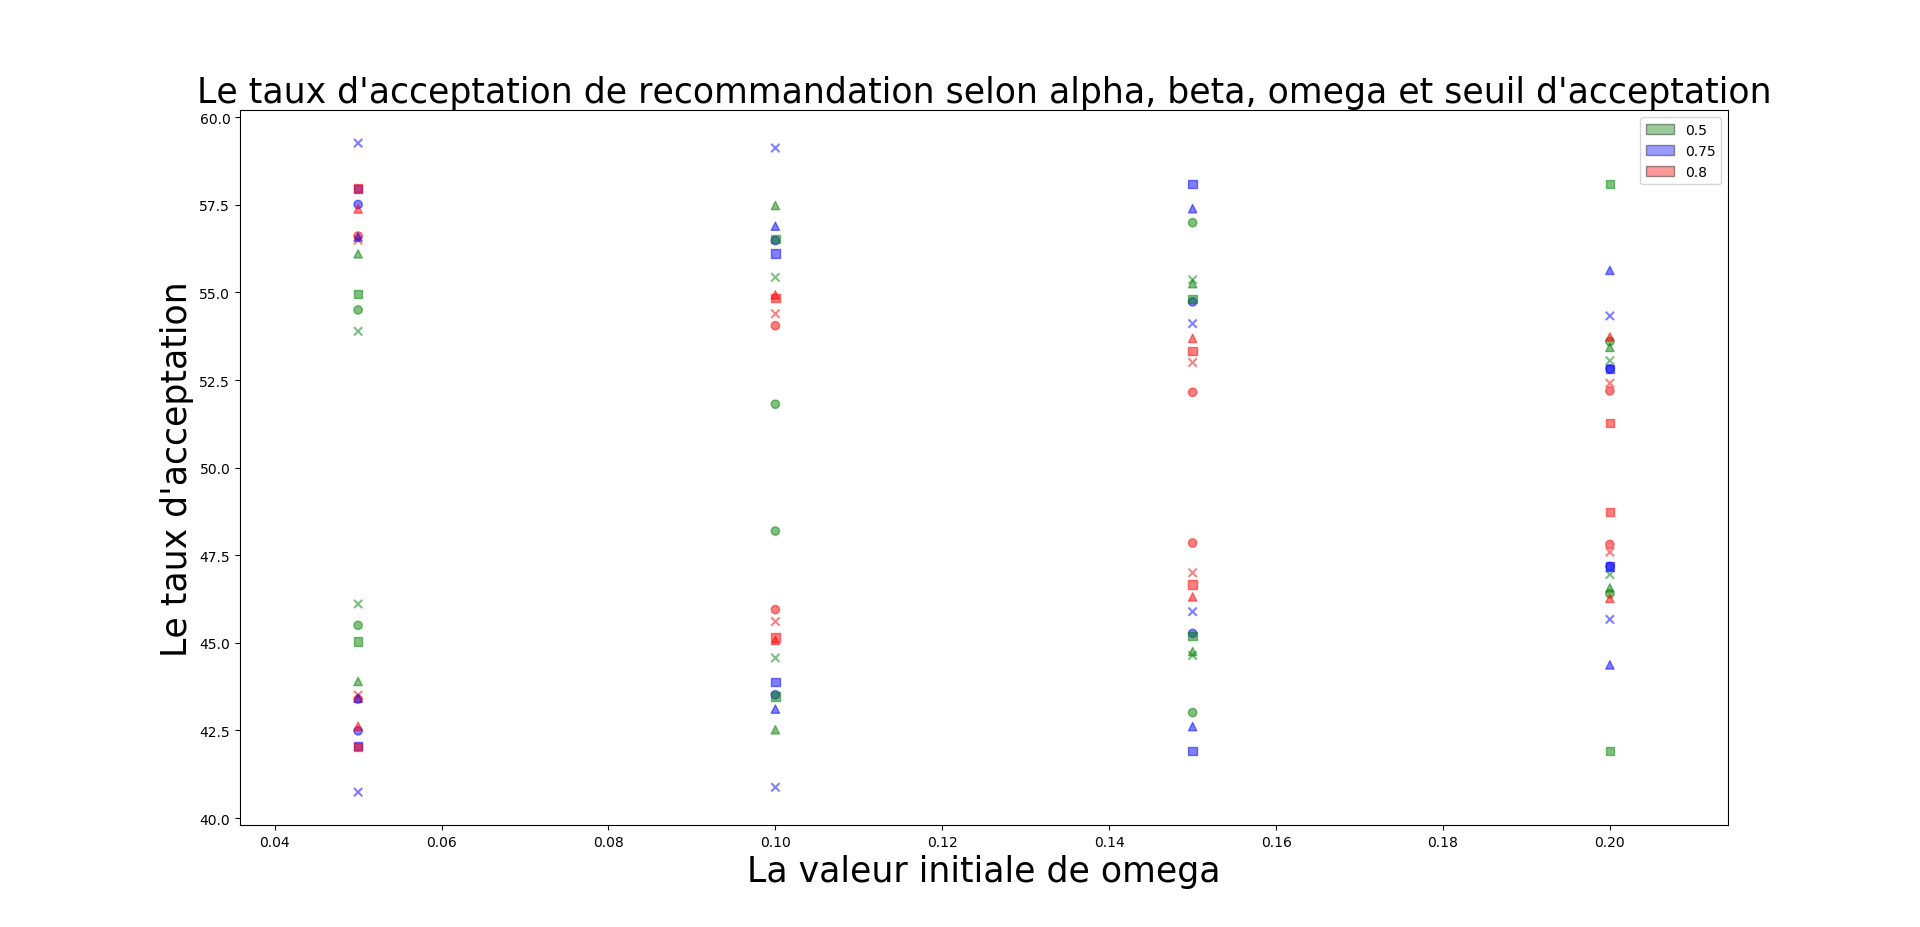
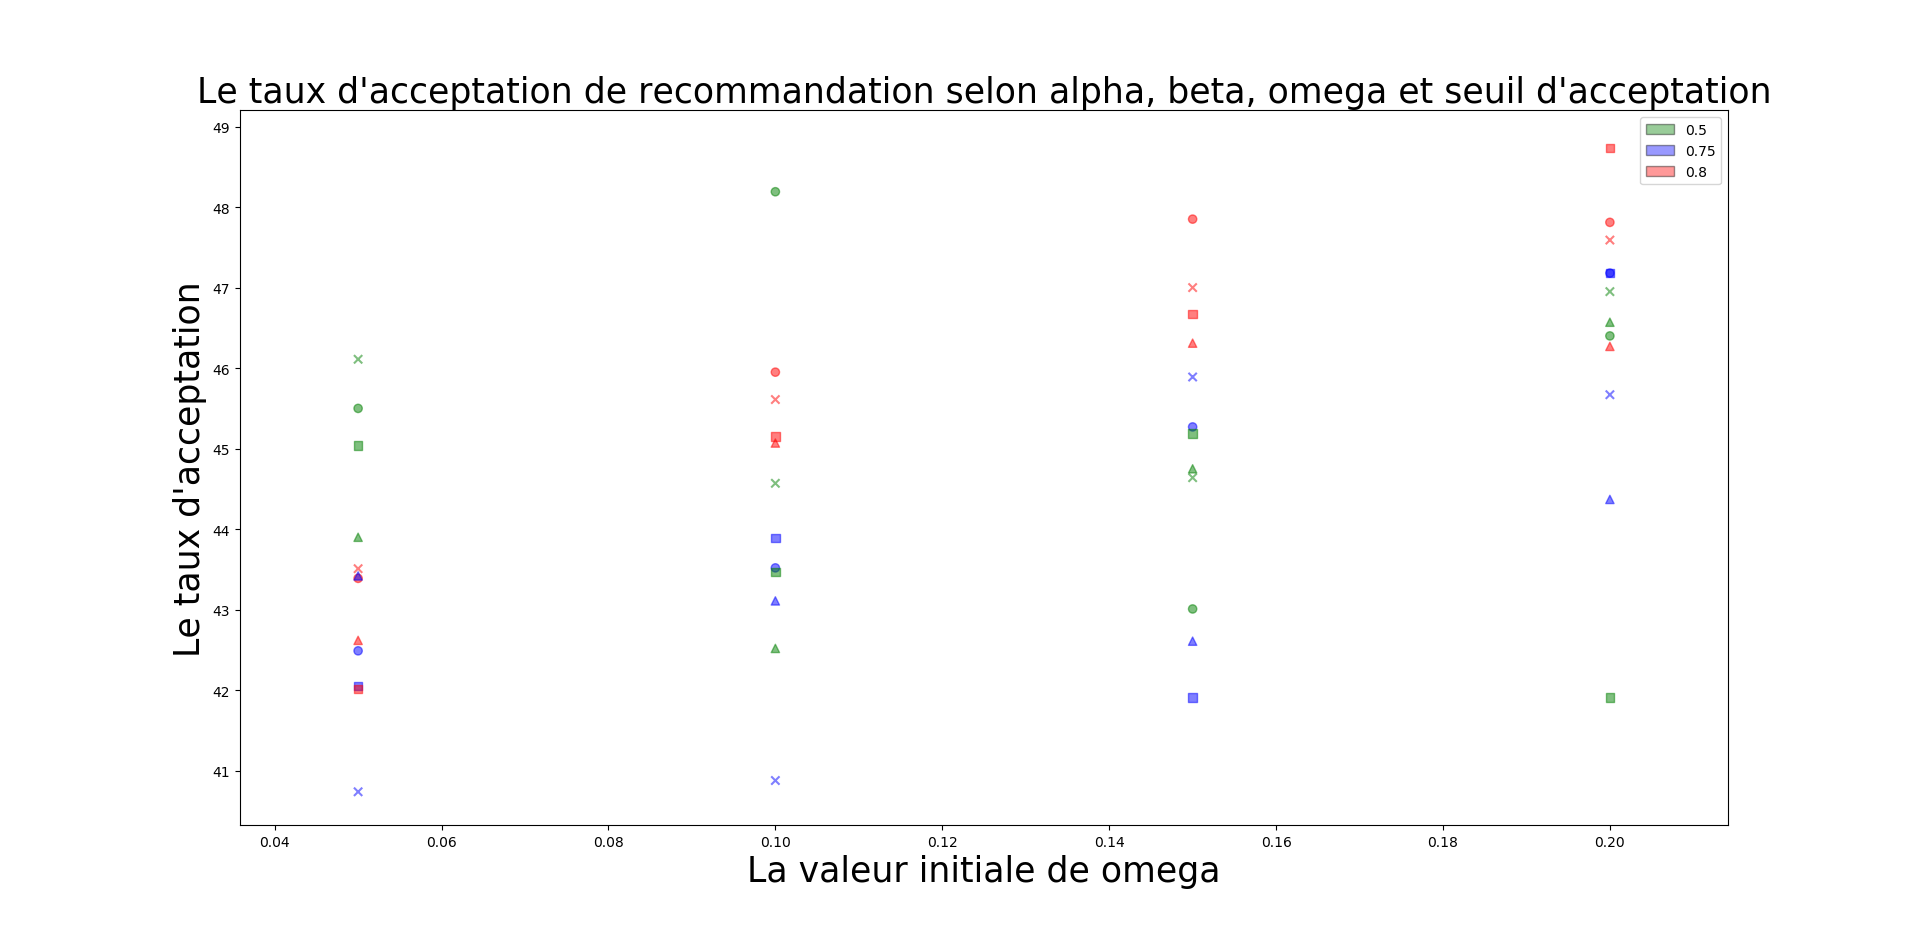
up

diff --git a/Code/evaluation_entrainement.py b/Code/evaluation_entrainement.py
@@ -32,9 +32,10 @@ def taux_acceptation_df(data) :
     
     data = data[data['substitution'].str.len() > 2]
     data = data.groupby(['alpha', 'beta', 'omega_ini', 'seuil_acc', 'reponse'])['user'].count().reset_index().rename(
-            columns = {'user' : 'count_True'}).drop(
-                    'reponse', axis = 1)
+            columns = {'user' : 'count_True'})
     data['count_reponse'] = data.groupby(['alpha', 'beta', 'omega_ini', 'seuil_acc'])['count_True'].transform('sum')
+    data = data[data['reponse'] == True].drop(
+                    'reponse', axis = 1)
     data['taux_acceptation'] = round(100*data['count_True'] / data['count_reponse'], 2)
     
     data['alpha_beta'] = list(zip(data['alpha'], data['beta']))
